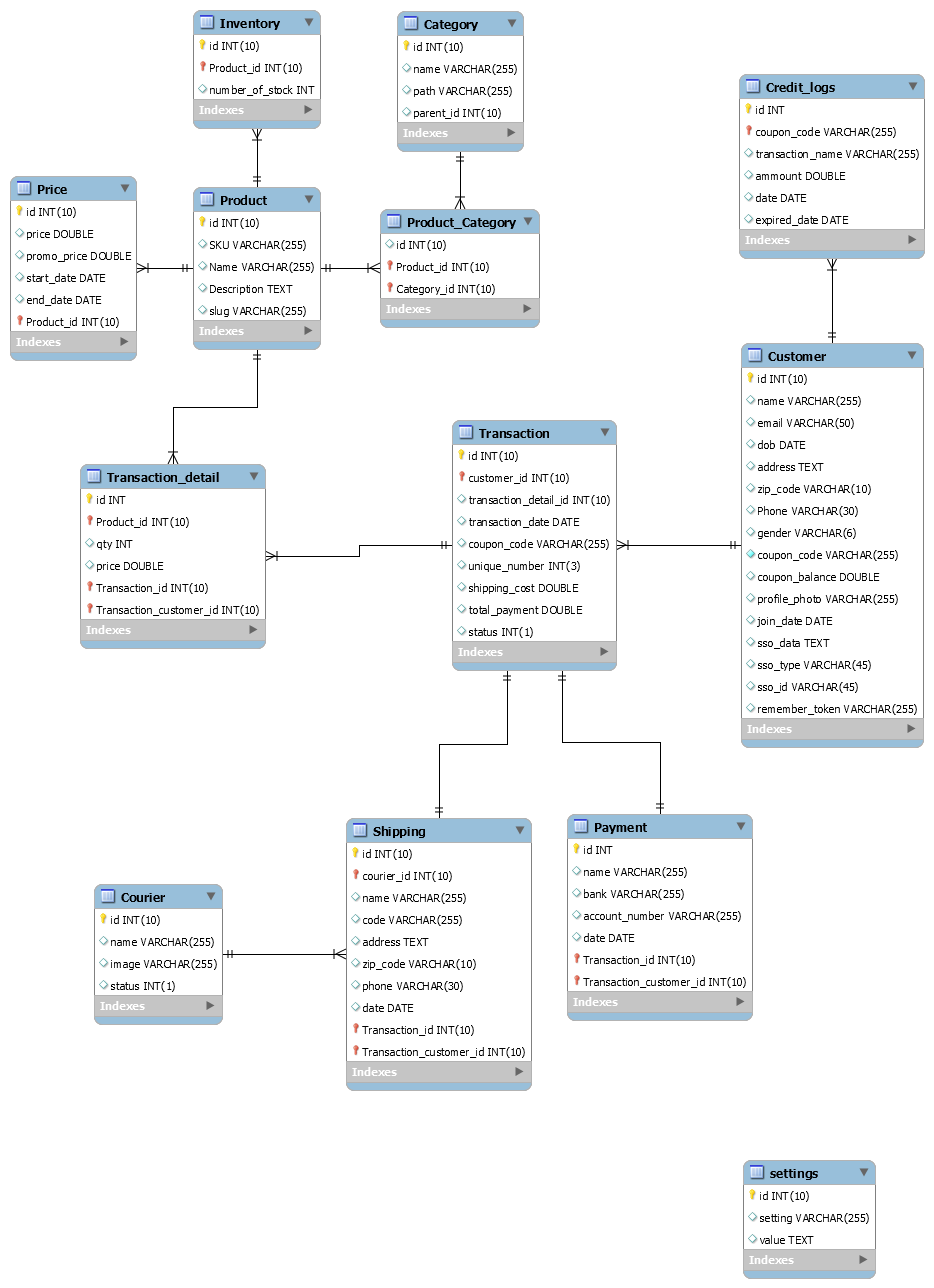
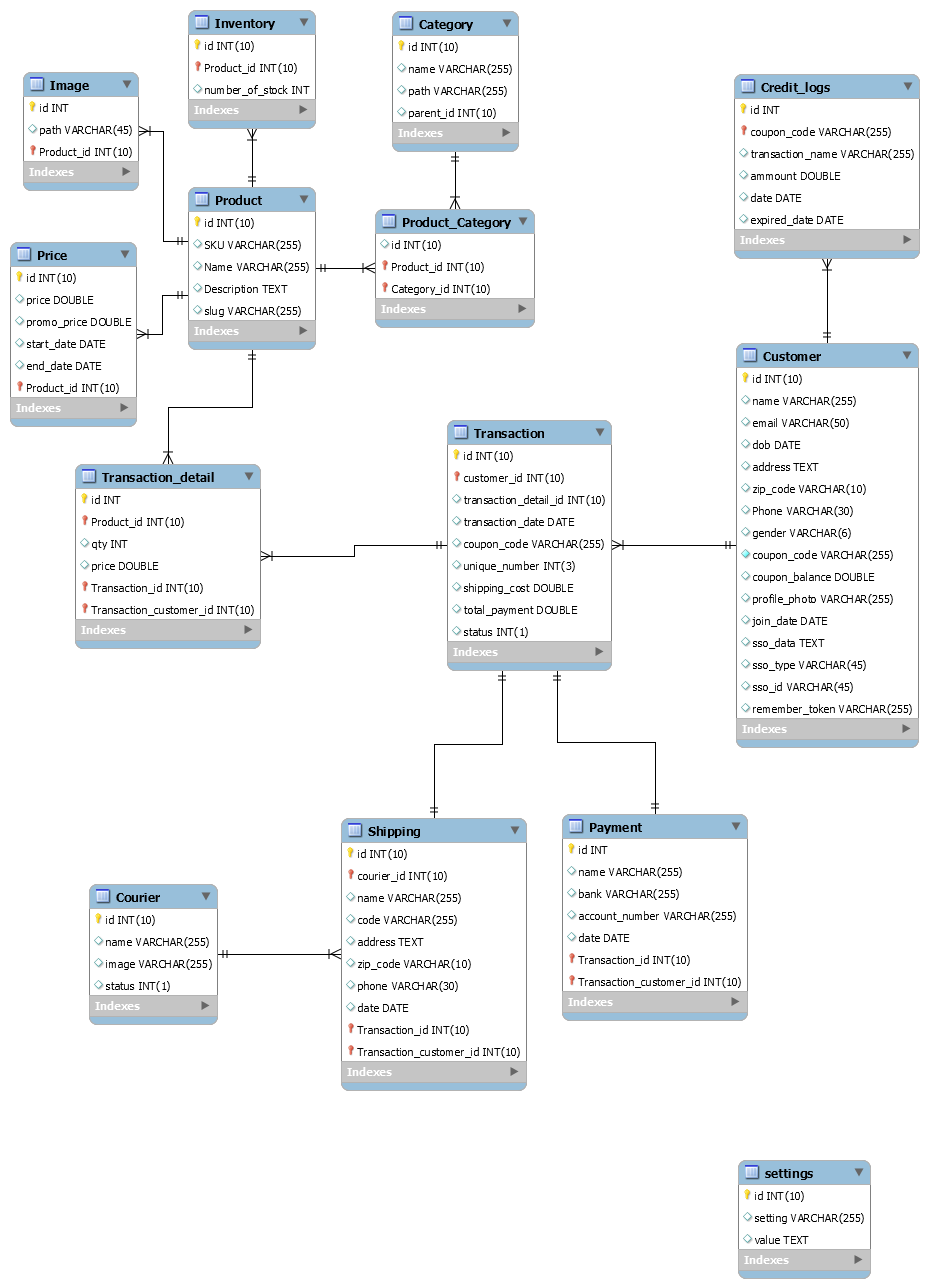
#2

diff --git a/database/migrations/2015_06_20_044140_create_images_table.php b/database/migrations/2015_06_20_044140_create_images_table.php
@@ -3,7 +3,7 @@
 use Illuminate\Database\Schema\Blueprint;
 use Illuminate\Database\Migrations\Migration;
 
-class CreateCreditLogsTable extends Migration
+class CreateImagesTable extends Migration
 {
     /**
      * Run the migrations.
@@ -12,15 +12,12 @@ class CreateCreditLogsTable extends Migration
      */
     public function up()
     {
-        Schema::create('credit_logs', function (Blueprint $table) {
+        Schema::create('images', function (Blueprint $table) {
             $table->increments('id');
-            $table->string('coupon_code');
-            $table->string('name');
-            $table->double('ammount');
-            $table->date('date');
-            $table->date('expired_date');
+            $table->integer('product_id');
+            $table->string('path');
             $table->timestamps();
-            $table->softDeletes();            
+            $table->softDeletes();
         });
     }
 
@@ -31,6 +28,6 @@ class CreateCreditLogsTable extends Migration
      */
     public function down()
     {
-        Schema::drop('credit_logs');
+        Schema::drop('images');
     }
 }

diff --git a/database/migrations/2015_06_19_031045_create_transaction_table.php b/database/migrations/2015_06_19_031045_create_transaction_table.php
@@ -22,6 +22,8 @@ class CreateTransactionTable extends Migration
             $table->double('shipping_cost');
             $table->double('total_payment');
             $table->integer('status');
+            $table->timestamps();
+            $table->softDeletes();
         });
     }
 

diff --git a/database/migrations/2015_06_19_035444_create_product_category_table.php b/database/migrations/2015_06_19_035444_create_product_category_table.php
@@ -16,6 +16,8 @@ class CreateProductCategoryTable extends Migration
             $table->increments('id');
             $table->integer('product_id');
             $table->integer('category_id');
+            $table->timestamps();
+            $table->softDeletes();
         });
     }
 

diff --git a/database/migrations/2015_06_19_035134_create_inventory_table.php b/database/migrations/2015_06_19_035134_create_inventory_table.php
@@ -16,6 +16,8 @@ class CreateInventoryTable extends Migration
             $table->increments('id');
             $table->integer('product_id');
             $table->integer('number_of_stock');
+            $table->timestamps();
+            $table->softDeletes();
         });
     }
 

diff --git a/database/migrations/2015_06_19_031054_create_transaction_detail_table.php b/database/migrations/2015_06_19_031054_create_transaction_detail_table.php
@@ -18,6 +18,8 @@ class CreateTransactionDetailTable extends Migration
             $table->integer('qty');
             $table->double('price');
             $table->integer('transaction_id');
+            $table->timestamps();
+            $table->softDeletes();
         });
     }
 

diff --git a/database/migrations/2015_06_19_034052_create_payment_table.php b/database/migrations/2015_06_19_034052_create_payment_table.php
@@ -19,6 +19,8 @@ class CreatePaymentTable extends Migration
             $table->string('account_number');
             $table->date('date');
             $table->integer('transaction_id');
+            $table->timestamps();
+            $table->softDeletes();
         });
     }
 

diff --git a/database/migrations/2015_06_19_022806_create_customer_table.php b/database/migrations/2015_06_19_022806_create_customer_table.php
@@ -29,6 +29,8 @@ class CreateCustomerTable extends Migration
             $table->string('sso_id');
             $table->text('sso_date');
             $table->string('remember_token');
+            $table->timestamps();
+            $table->softDeletes();
         });
     }
 

diff --git a/database/migrations/2015_06_19_031716_create_shipping_table.php b/database/migrations/2015_06_19_031716_create_shipping_table.php
@@ -22,6 +22,8 @@ class CreateShippingTable extends Migration
             $table->string('phone');
             $table->date('date');
             $table->integer('transaction_id');
+            $table->timestamps();
+            $table->softDeletes();
         });
     }
 

diff --git a/database/migrations/2015_06_19_034944_create_price_table.php b/database/migrations/2015_06_19_034944_create_price_table.php
@@ -19,6 +19,8 @@ class CreatePriceTable extends Migration
             $table->date('start_date');
             $table->date('end_date');
             $table->integer('product_id');
+            $table->timestamps();
+            $table->softDeletes();
         });
     }
 

diff --git a/database/migrations/2015_06_19_034427_create_settings_table.php b/database/migrations/2015_06_19_034427_create_settings_table.php
@@ -16,6 +16,8 @@ class CreateSettingsTable extends Migration
             $table->increments('id');
             $table->string('setting');
             $table->string('value');
+            $table->timestamps();
+            $table->softDeletes();
         });
     }
 

diff --git a/database/migrations/2015_06_19_035335_create_category_table.php b/database/migrations/2015_06_19_035335_create_category_table.php
@@ -17,6 +17,8 @@ class CreateCategoryTable extends Migration
             $table->string('name');
             $table->string('path');
             $table->integer('parent_id');
+            $table->timestamps();
+            $table->softDeletes();
         });
     }
 

diff --git a/database/migrations/2015_06_19_034756_create_product_table.php b/database/migrations/2015_06_19_034756_create_product_table.php
@@ -18,6 +18,8 @@ class CreateProductTable extends Migration
             $table->string('name');
             $table->text('description');
             $table->string('slug');
+            $table->timestamps();
+            $table->softDeletes();
         });
     }
 
